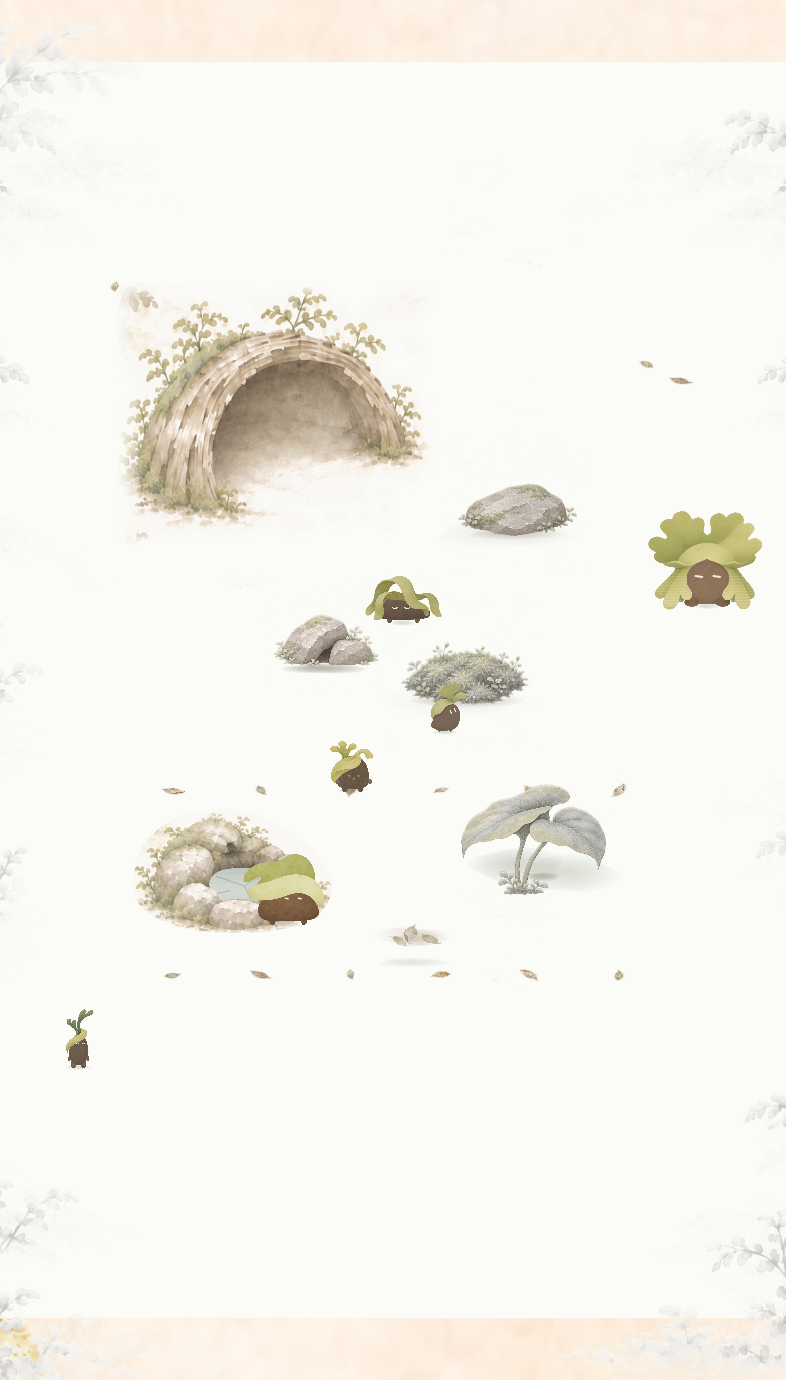
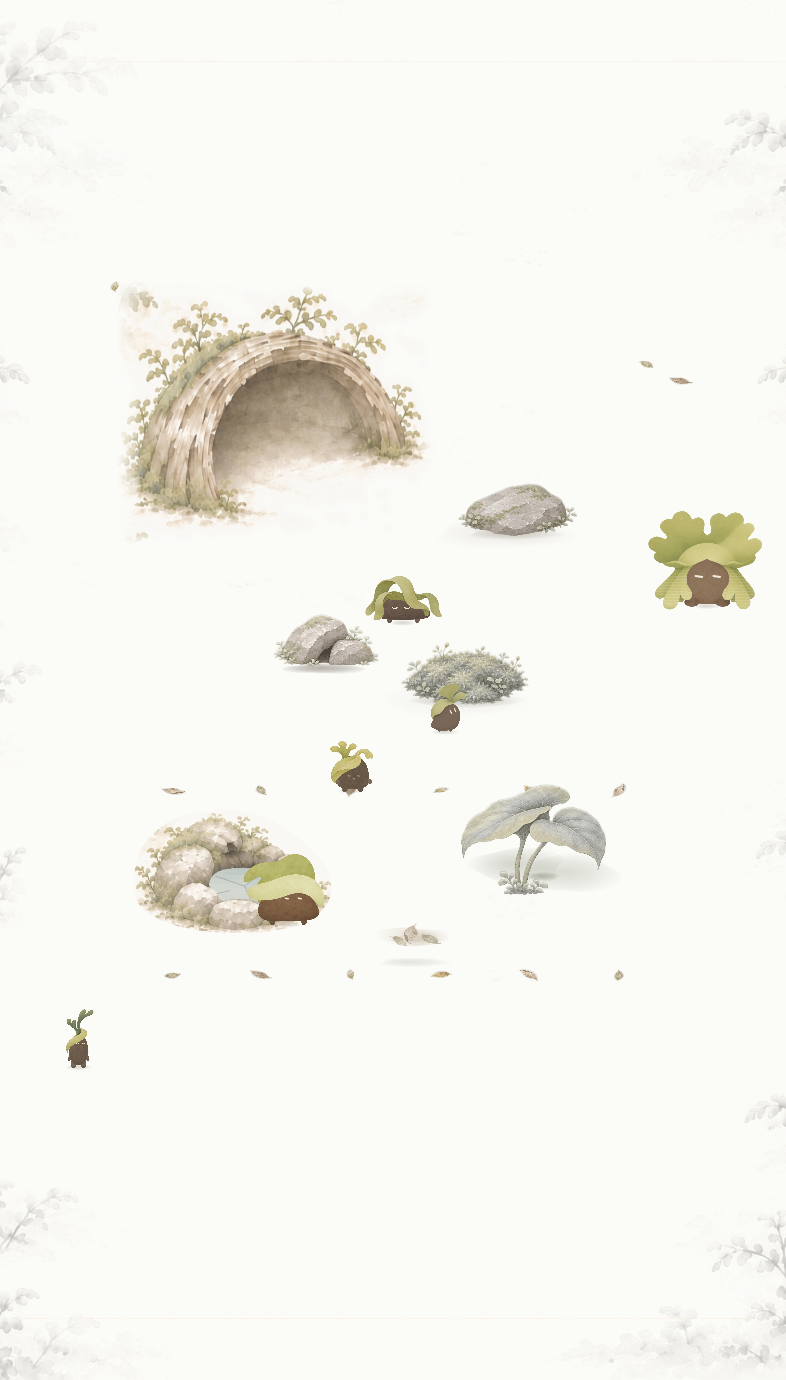
WIP 0.8.1: winter snow also outside the forest bounds
Claude-Session: https://claude.ai/code/session_01AkSebmy3Y1v8yPfHbxXfQs

diff --git a/app/src/main/assets/web/scene.js b/app/src/main/assets/web/scene.js
@@ -242,7 +242,7 @@ ringGlow(t){const r=this.ringPass,n=r?Math.min(1,Math.max(0,(.95-r.light)/(.95-.
  drawFrame(c,base){const im=this.assets.frame;if(!im)return;const cam=this.camera,fw=360*cam.fit,fh=576*cam.fit;c.save();c.setTransform(base);this.seasonal('frame',f=>c.drawImage(f,(this.vw-fw)/2,(cam.visibleHeight-fh)/2,fw,fh));c.restore();}
  drawWorld(){this.hoodPasses=[];const s=this.state(),c=this.ctx,w=this.w,h=this.h,phase=s.settings.reducedMotion?0:this.phase;
   if(this.tick!==s.worldTick){this.tick=s.worldTick;this.tickAt=this.phase;}const fraction=Math.min(1,Math.max(0,this.phase-(this.tickAt||this.phase)));
-  c.clearRect(0,0,this.vw,this.vh);const paper=this.assets.garden;c.drawImage(paper,paper.width*.4,paper.height*.04,paper.width*.2,paper.height*.14,0,0,this.vw,this.vh);const wb=Forest.World?Forest.World.bounds(s):{x0:0,y0:0,x1:1,y1:1};this.syncWorld(wb);const base=c.getTransform();
+  c.clearRect(0,0,this.vw,this.vh);const paper=this.assets.garden;c.drawImage(paper,paper.width*.4,paper.height*.04,paper.width*.2,paper.height*.14,0,0,this.vw,this.vh);{const cal=this.cal(),snow=!cal?0:cal.id==='winter'?cal.blend:cal.prev==='winter'?1-cal.blend:0;if(snow>0){c.save();c.globalAlpha=snow;c.fillStyle='rgb(250,250,247)';c.fillRect(0,0,this.vw,this.vh);c.restore();}}/* 0.8.1: in winter the area outside the forest is snow too */const wb=Forest.World?Forest.World.bounds(s):{x0:0,y0:0,x1:1,y1:1};this.syncWorld(wb);const base=c.getTransform();
   const enter=()=>{c.save();c.translate(this.camera.tx,this.camera.ty);c.scale(this.camera.scale,this.camera.scale);c.beginPath();c.rect(wb.x0*w,wb.y0*h,(wb.x1-wb.x0)*w,(wb.y1-wb.y0)*h);c.clip();};
   enter();this.drawFloor(c,w,h);this.seasonProps(c,w,h);c.restore();this.drawFrame(c,base);enter();for(const f of s.shelters?.facilities||[])this.shelterArt(this.facilityPreview?.id===f.id?this.facilityPreview:f);if(this.facilityPreview&&!s.shelters.facilities.some(f=>f.id===this.facilityPreview.id)){c.save();c.globalAlpha=.65;this.shelterArt(this.facilityPreview);c.restore();}
   const patches=s.patches.map(p=>({...p,...this.preview[p.id]}));patches.sort((a,b)=>a.y-b.y).forEach(p=>this.terrain(p));this.drawFallen();
